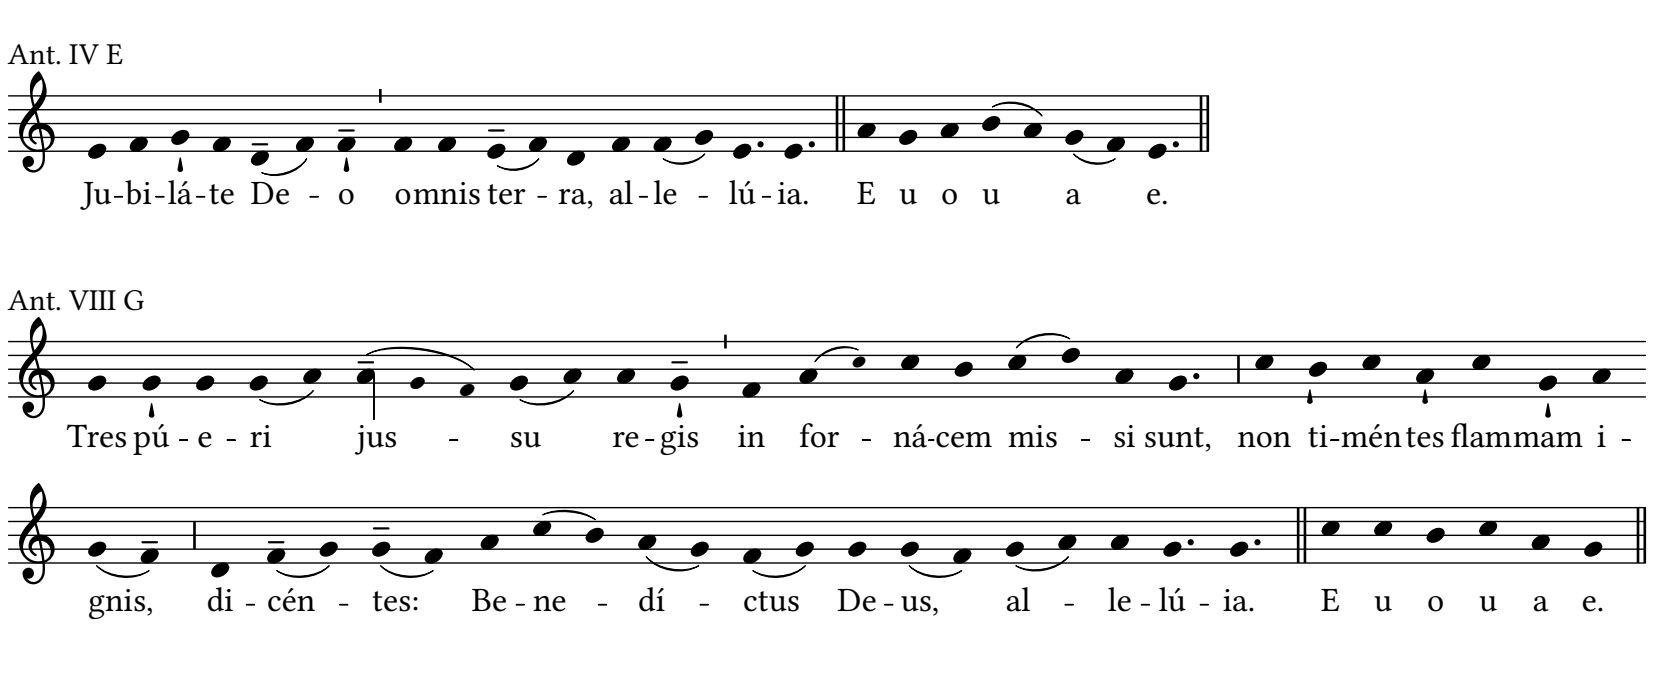
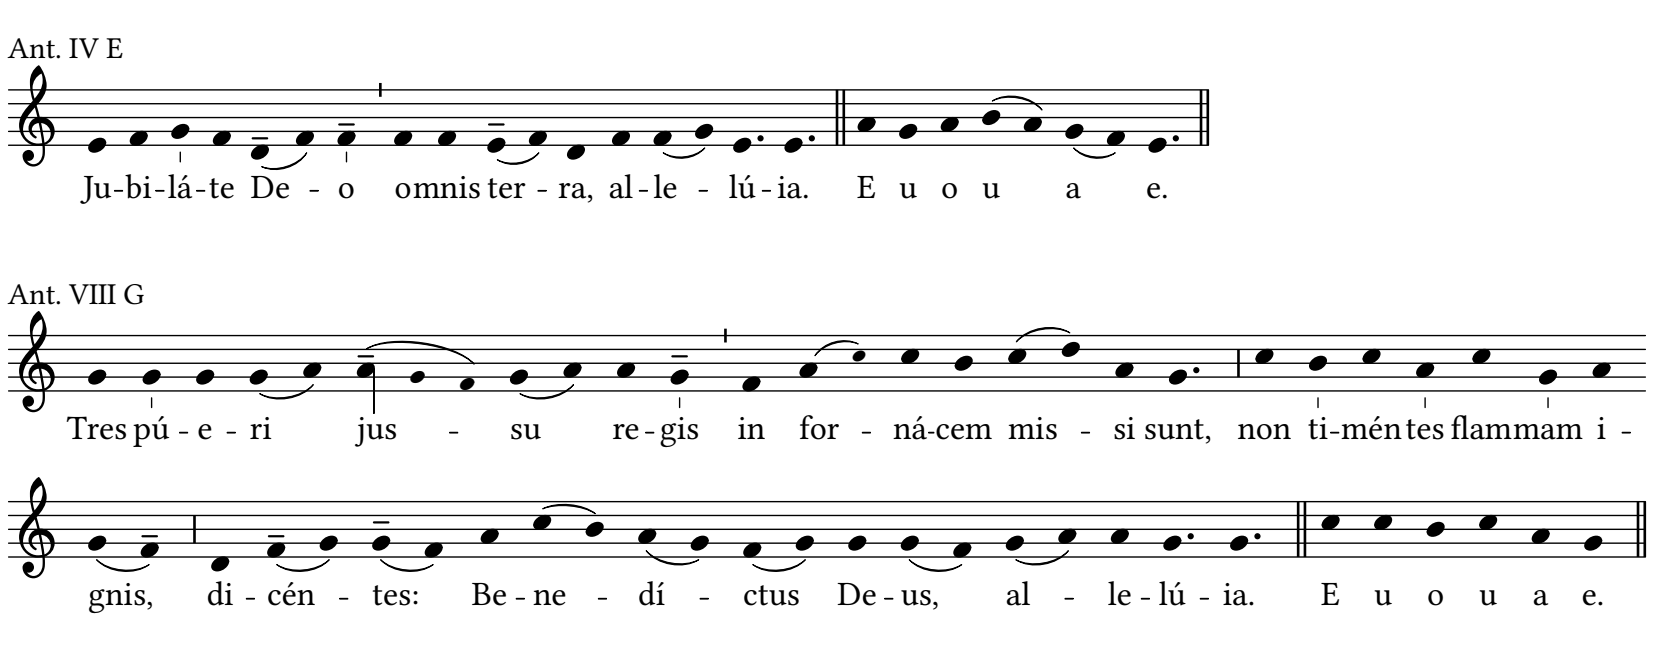
readme: square notation instructions, example output updated

diff --git a/README.md b/README.md
@@ -76,12 +76,47 @@ It's suggested to include one of them either in the global
 }
 ```
 
-It's necessary to add the lilygabc root directory to LilyPond
+When engraving the document
+it's necessary to add the lilygabc root directory to LilyPond
 include paths:
 
 `$ lilypond --include=path/to/lilygabc my_document.ly`
 
-[![Example output](/doc/example.png)](/doc/example.ly)
+[![Example output: modern notation](/doc/example.png)](/doc/example.ly)
+
+In order to render gabc scores in square notation,
+use commands `\gabc-vaticana` and `\gabc-vaticana-file`.
+
+Note that in this case you have to `\include "gregorian.ly"`
+in addition to lilygabc.
+(lilygabc doesn't include `gregorian.ly` by default
+and leaves it to the user, because `gregorian.ly` changes
+global settings quite recklessly and the user should be in
+control over *if* and *when* these changes are applied.)
+
+```lilypond
+% If the \lilygabcVaticanaLayout layout variable is used,
+% it's important to include gregorian.ly *before* lilygabc
+\include "gregorian.ly"
+
+\include "lilygabc.ily"
+
+\score {
+  \gabc-vaticana
+    "(c4) Ju(e)bi(f)lá(g')te(f) De(d_f)o(f'_) (,)
+    o(f)mnis(f) ter(e_f)ra,(d) al(f)le(fg)lú(e.)ia.(e.) (::)
+    E(h) u(g) o(h) u(ih) a(gf) e.(e.) (::)"
+
+  \layout {
+    \lilygabcVaticanaLayout
+  }
+}
+```
+
+[![Example output: square notation](/doc/vaticana-example.png)](/doc/vaticana-example.ly)
+
+(The square notation support in lilygabc is still very much a work
+in progress, limits of what LilyPond can do haven't been reached yet.)
 
 ## Running tests
 
